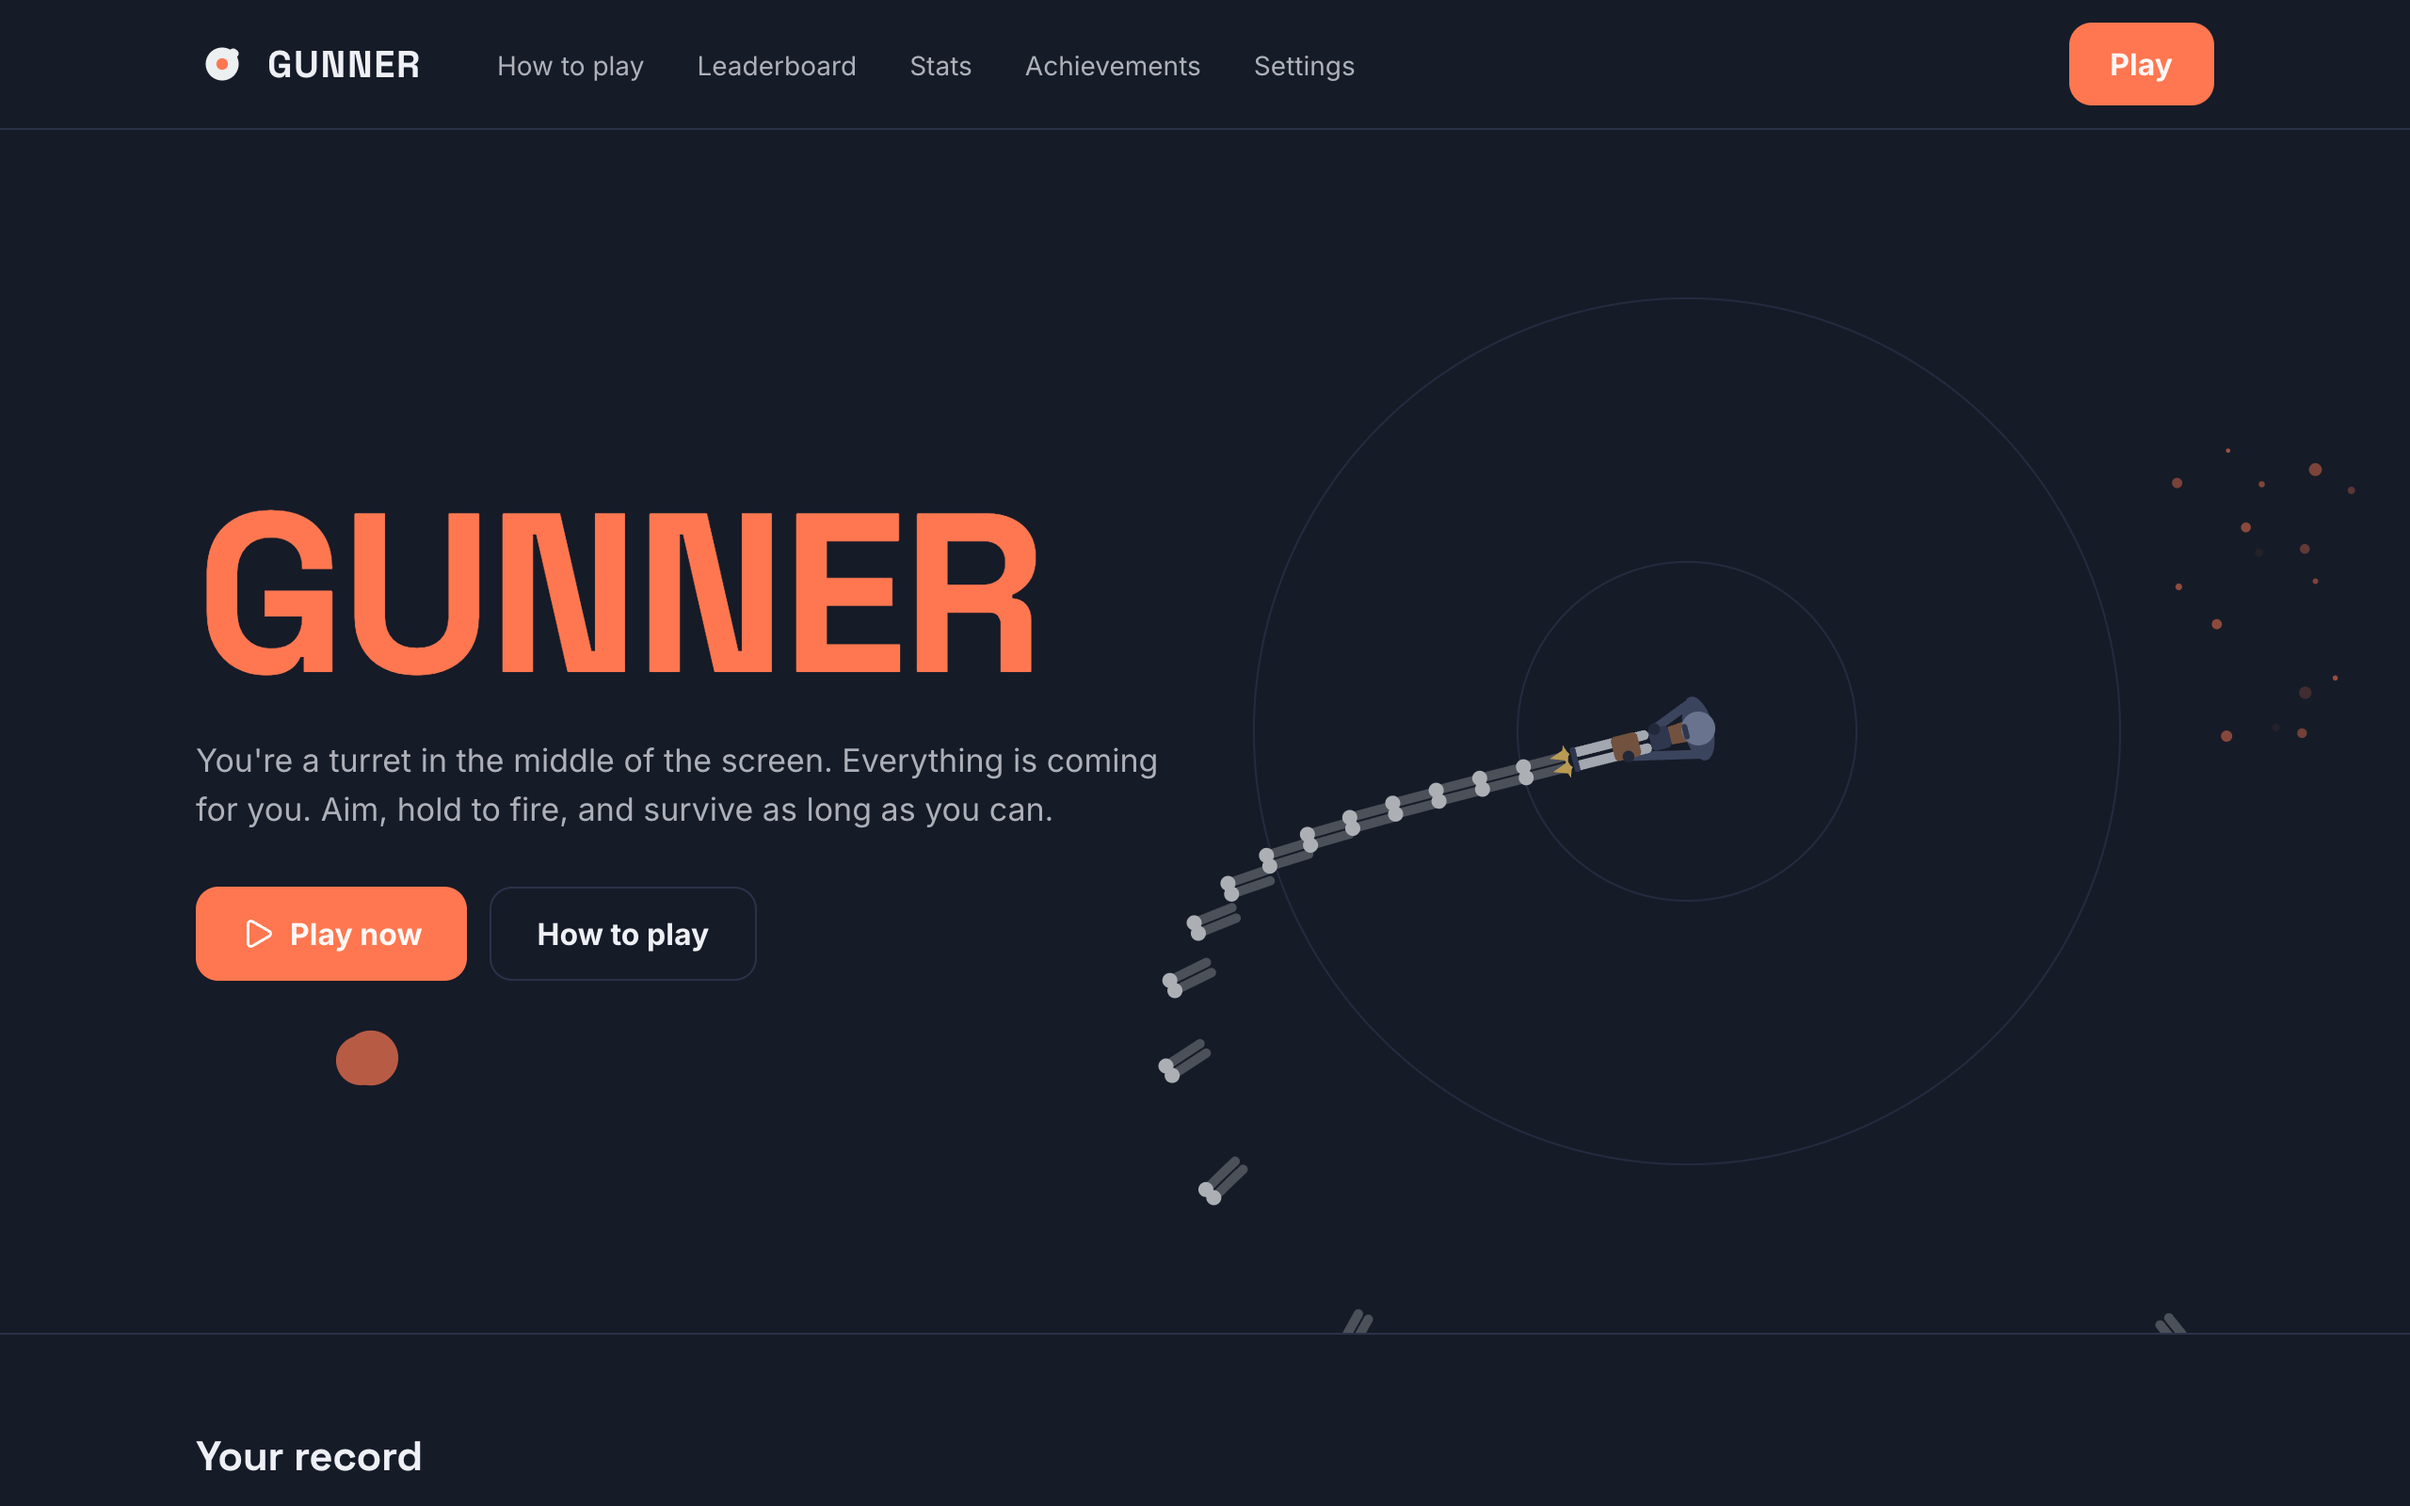
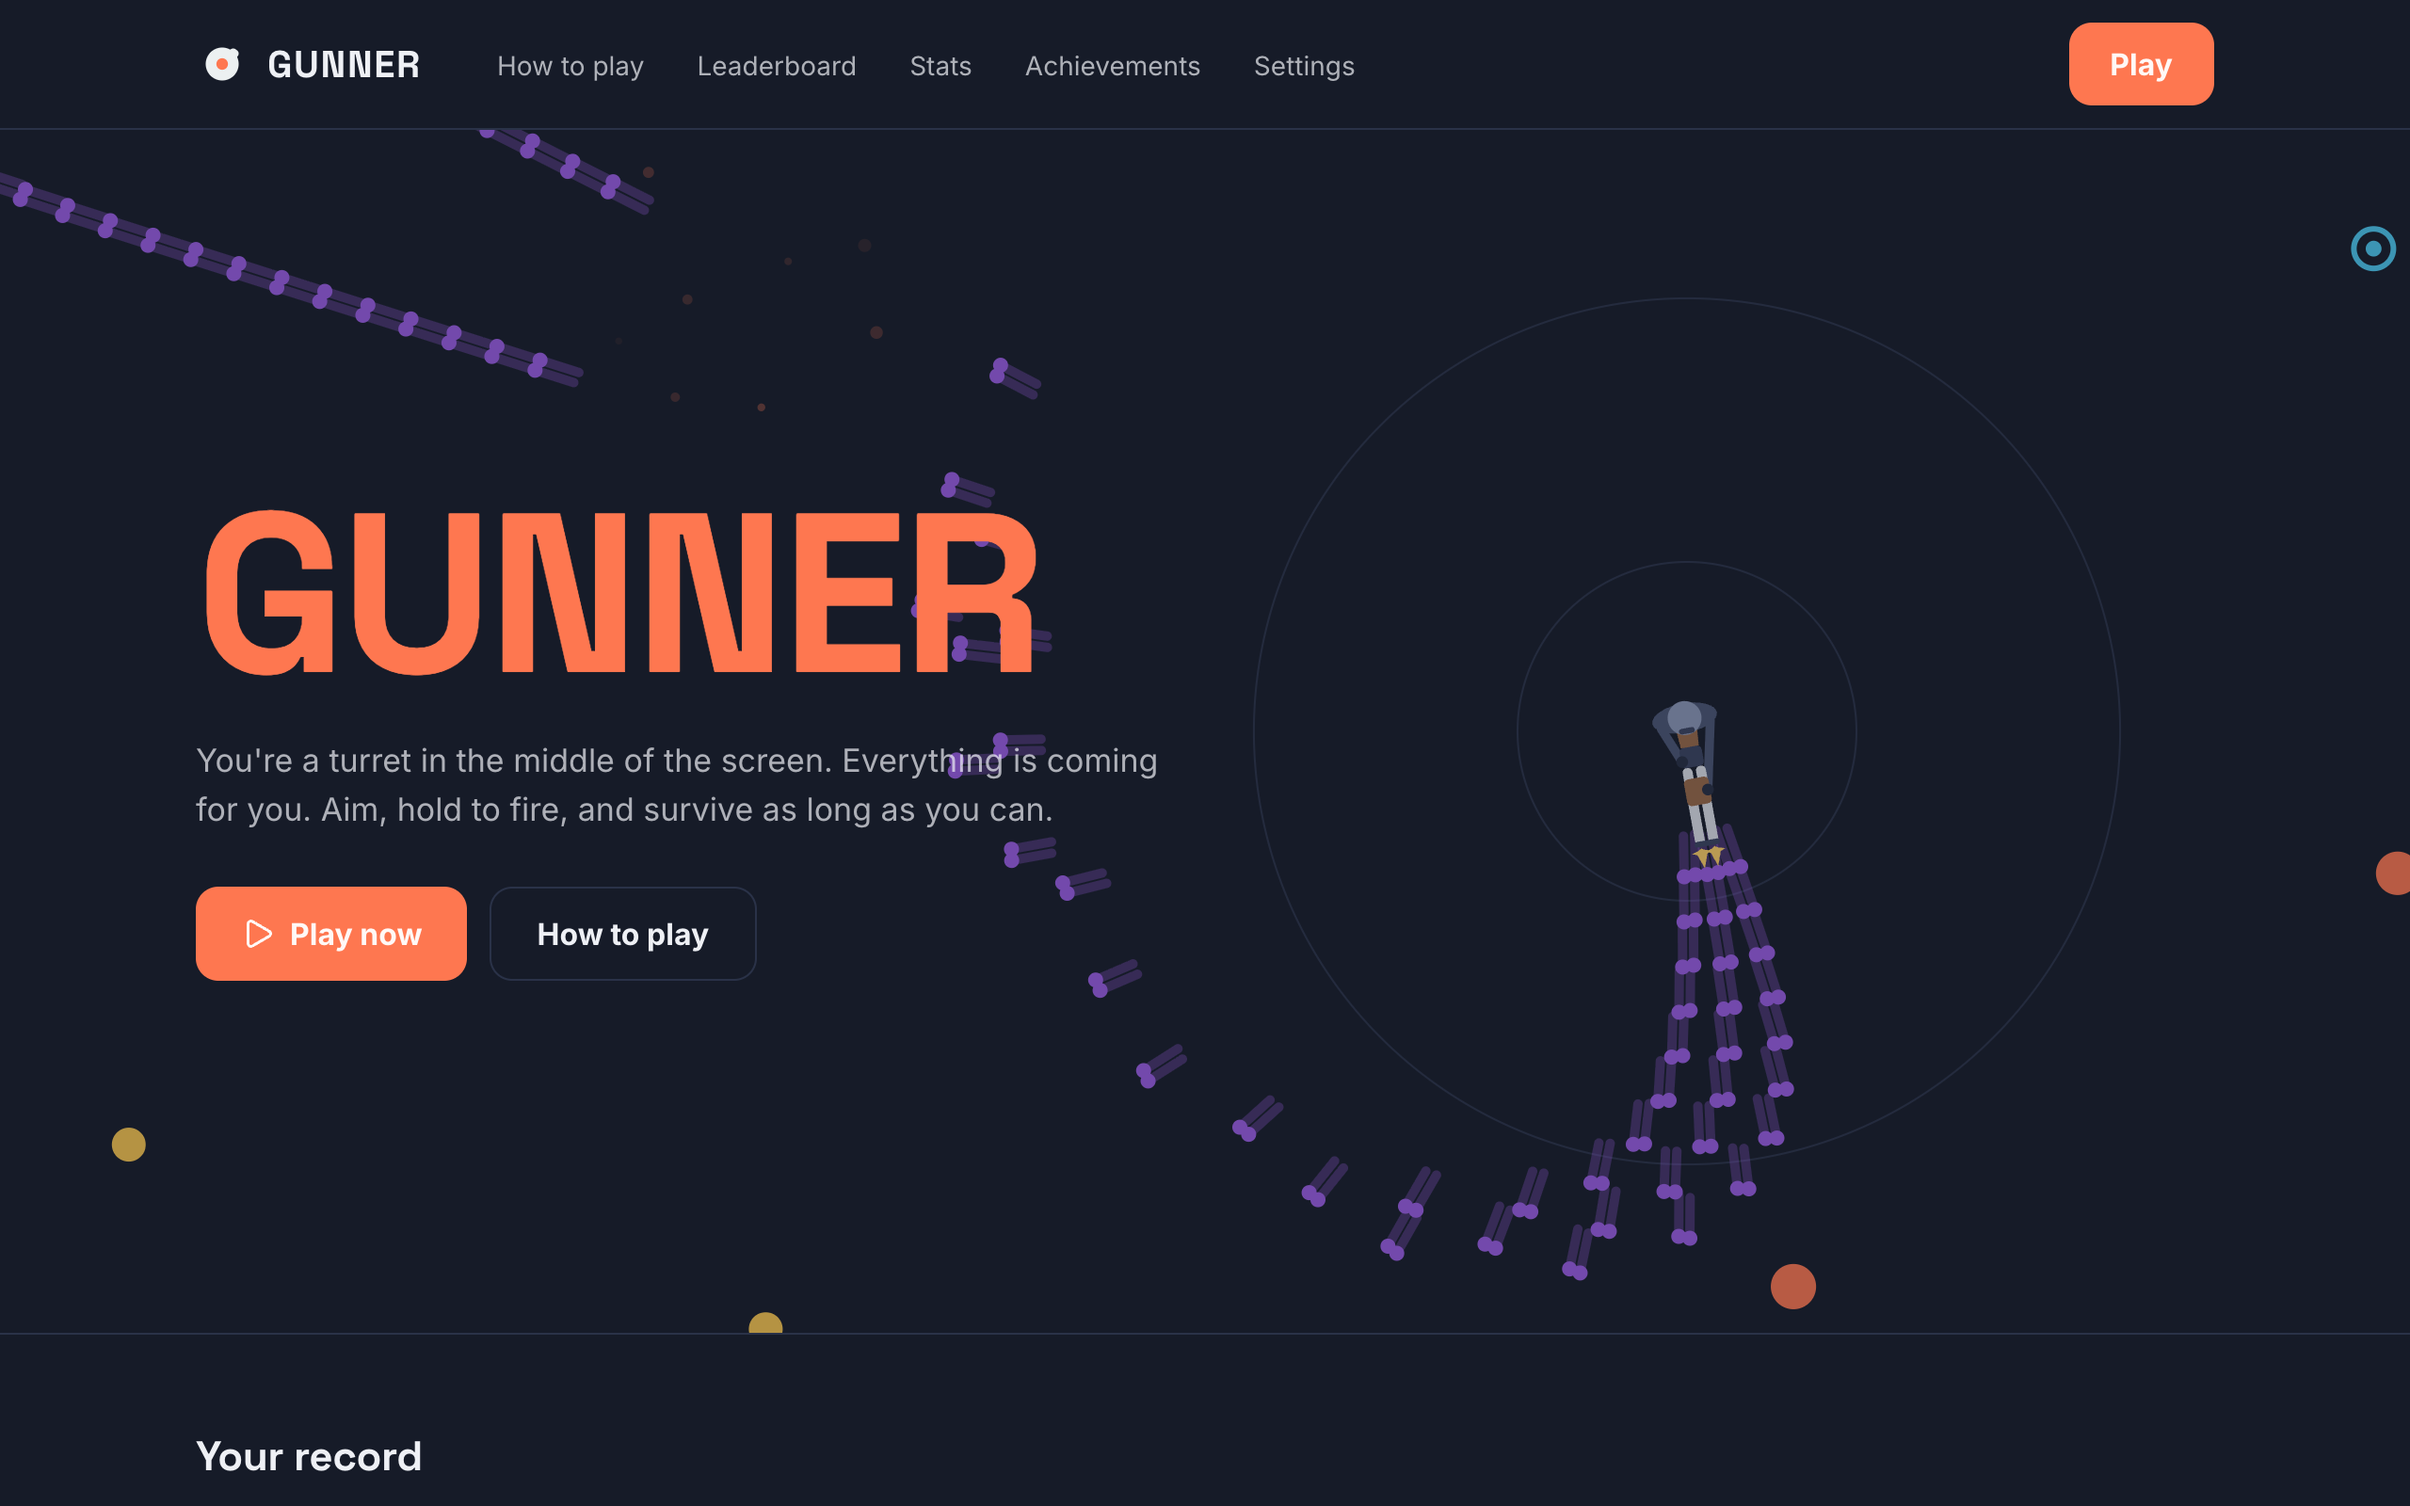
README: badges, screenshots and the same layout as my other projects; MIT license

diff --git a/README.md b/README.md
@@ -1,35 +1,74 @@
-# Gunner
+<div align="center">
 
-An arcade shooter for the browser. You're a turret in the middle of the screen and everything flies at you: aim, hold to fire, grab power-ups and survive as long as you can.
+# 🎯 Gunner
 
-Built with Next.js, TypeScript and a hand-written canvas engine. No backend: scores, stats and achievements are saved in your browser.
+**An arcade shooter for the browser: you're the gunner in the middle of the screen and everything flies at you. Aim, hold to fire, upgrade your gun and survive as long as you can.**
 
-![A game in progress: wave 5 with the Mothership](docs/screenshots/game.png)
+[![Next.js](https://img.shields.io/badge/Next.js-16-000000?logo=nextdotjs&logoColor=white)](https://nextjs.org)
+[![React](https://img.shields.io/badge/React-19-61DAFB?logo=react&logoColor=black)](https://react.dev)
+[![TypeScript](https://img.shields.io/badge/TypeScript-5.9-3178C6?logo=typescript&logoColor=white)](https://www.typescriptlang.org)
+[![Canvas](https://img.shields.io/badge/Canvas-2D-E34F26?logo=html5&logoColor=white)](https://developer.mozilla.org/docs/Web/API/Canvas_API)
+[![Web Audio](https://img.shields.io/badge/Web%20Audio-API-4CC9F0)](https://developer.mozilla.org/docs/Web/API/Web_Audio_API)
+[![Sass](https://img.shields.io/badge/Sass-CSS%20modules-CC6699?logo=sass&logoColor=white)](https://sass-lang.com)
+[![pnpm](https://img.shields.io/badge/pnpm-F69220?logo=pnpm&logoColor=white)](https://pnpm.io)
+[![License: MIT](https://img.shields.io/badge/license-MIT-22C55E)](LICENSE)
+<br />
+[![Last commit](https://img.shields.io/github/last-commit/boushib/gunner)](https://github.com/boushib/gunner/commits/main)
+[![Top language](https://img.shields.io/github/languages/top/boushib/gunner)](https://github.com/boushib/gunner)
+[![Repo size](https://img.shields.io/github/repo-size/boushib/gunner)](https://github.com/boushib/gunner)
 
-| Home | How to play | Stats |
-| --- | --- | --- |
-| ![Home page with the game playing itself](docs/screenshots/home.png) | ![Enemies and power-ups](docs/screenshots/how-to-play.png) | ![Lifetime stats](docs/screenshots/stats.png) |
+<img src="docs/screenshots/game.png" alt="A game in progress: wave 5 with the Mothership" width="900" />
+
+</div>
+
+## Screenshots
+
+**Home:** the game plays itself in the background, with your best scores and the three modes
+
+<img src="docs/screenshots/home.png" alt="Home page with the game playing itself" width="100%" />
+
+**Leaderboard:** your ten best games in each mode, with the top three on a podium
+
+<img src="docs/screenshots/leaderboard.png" alt="Leaderboard with a podium for the top three" width="100%" />
+
+**How to play:** controls, the six guns, every enemy and power-up, and the scoring rules
+
+<img src="docs/screenshots/how-to-play.png" alt="Enemies and power-ups" width="100%" />
+
+**Stats:** games, time played, accuracy, best combo, highest wave and kills by enemy type
+
+<img src="docs/screenshots/stats.png" alt="Lifetime stats" width="100%" />
+
+## About
+
+I first built Gunner in 2022 as a single canvas script with Vite and GSAP: a white circle in the middle shooting at colored circles. In 2026 I rebuilt it on **Next.js 16** (App Router), **React 19** and **TypeScript**, with a new hand-written canvas engine, real gameplay (enemy types, waves, bosses, power-ups, gun upgrades) and a site around it.
+
+It runs entirely on its own: no backend, no assets to download. Everything is drawn in code, the sound effects are synthesized with the Web Audio API, and scores, stats and achievements are saved in your browser.
 
 ## Features
 
 ### The game
 - **Three modes:** Classic (endless waves, three lives, a boss every fifth wave), Blitz (90 seconds of nonstop enemies) and Hardcore (one life, faster enemies, double points)
+- **Six guns:** every kill fills your gun bar, and a full bar upgrades your gun for the rest of the game, from a pistol to an SMG, a double barrel, an assault rifle, a machine gun and a minigun. Getting hit knocks it down a level
 - **Six enemies:** drones, fast runners, zigzagging weavers, splitters that burst into runners, tough brutes that shrink as you hit them, and the Mothership boss, which circles you and launches drones
-- **Gun upgrades:** every kill fills your gun bar, and a full bar upgrades your gun for the rest of the game, through six real-looking guns, from a pistol to a minigun, held by your gunner (drawn from above). Getting hit knocks it down a level
 - **Seven power-ups**, dropped by enemies and collected by shooting them: rapid fire, spread shot, piercing rounds, slow time, shield, nuke and extra life
 - **Scoring** with combos (up to ×5), wave-clear bonuses and perfect-wave bonuses
-- Hit effects: particles, screen shake, shockwaves that push enemies back, and floating points
-- **Sound effects** synthesized with the Web Audio API, so there are no audio files
+- Recoil, muzzle flashes, particles, screen shake, shockwaves that push enemies back, and floating points
+- **Sound effects** synthesized with the Web Audio API
 - Mouse, touch and keyboard: hold to fire, P or Esc to pause, and the game pauses when you switch tabs
 - Frame-rate independent movement, sharp on high-DPI screens, and slower enemies on small screens so phones stay fair
 
 ### The site
 - **Home** with the game playing itself in the background, your best scores and the three modes
-- **How to play:** controls, gun levels, every enemy and power-up, and the scoring rules
-- **Leaderboard:** your top ten games in each mode
-- **Stats:** games, time played, accuracy, best combo, highest wave and kills by enemy type
+- **How to play:** controls, the guns, every enemy and power-up, and the scoring rules
+- **Leaderboard:** your top ten games per mode with a podium for the top three, under a generated username you can change
+- **Stats:** lifetime numbers and kills by enemy type
 - **Achievements:** 17 goals across all modes, announced on the results screen when you unlock them
-- **Settings:** player name, sound and volume, screen shake and particle amount, and clearing your data
+- **Settings:** username, sound and volume, screen shake and particle amount, and clearing your data
+
+### Design
+- Flat colors on a dark navy background, Inter for text and Space Grotesk for headings and scores
+- Responsive down to 320px, and playable with touch on phones and tablets
 
 ## Getting started
 
@@ -40,13 +79,15 @@ pnpm install
 pnpm dev
 ```
 
-Open [http://localhost:3000](http://localhost:3000).
+Open [http://localhost:3000](http://localhost:3000). No environment variables are needed.
+
+### Scripts
 
 | Script | What it does |
 | --- | --- |
 | `pnpm dev` | Dev server |
 | `pnpm build` / `pnpm start` | Production build and server |
-| `pnpm lint` | ESLint |
+| `pnpm lint` | ESLint (flat config) |
 | `pnpm typecheck` | Route types and TypeScript, no emit |
 | `pnpm dev:agent` / `pnpm build:agent` | The same on port 3500 with their own build folders, so a second server doesn't clash with yours |
 
@@ -55,10 +96,17 @@ In development the running game is available in the browser console as `window.g
 ## Project structure
 
 ```
-app/(site)/        Home, how to play, leaderboard, stats, achievements and settings
-app/play/          The full-screen game (?mode=classic | blitz | hardcore)
-components/game/   The game screen: menu, HUD, pause and results
-lib/game/          The engine (loop, spawning, combat), drawing and the enemy and power-up definitions
-lib/save.ts        Settings, scores, lifetime stats and achievements, saved in localStorage
-lib/sound.ts       Synthesized sound effects
+app/(site)/           Home, how to play, leaderboard, stats, achievements and settings
+app/play/             The full-screen game (?mode=classic | blitz | hardcore)
+components/game/      The game screen: menu, HUD, pause and results
+lib/game/engine.ts    The loop, spawning, combat, power-ups and gun levels
+lib/game/draw.ts      Drawing enemies, bullets and effects
+lib/game/guns.ts      The gunner and the six guns, seen from above
+lib/game/config.ts    Enemies, power-ups, guns and modes
+lib/save.ts           Settings, usernames, scores, lifetime stats and achievements, saved in localStorage
+lib/sound.ts          Synthesized sound effects
 ```
+
+## License
+
+[MIT](LICENSE) © El Hassane Boushib
